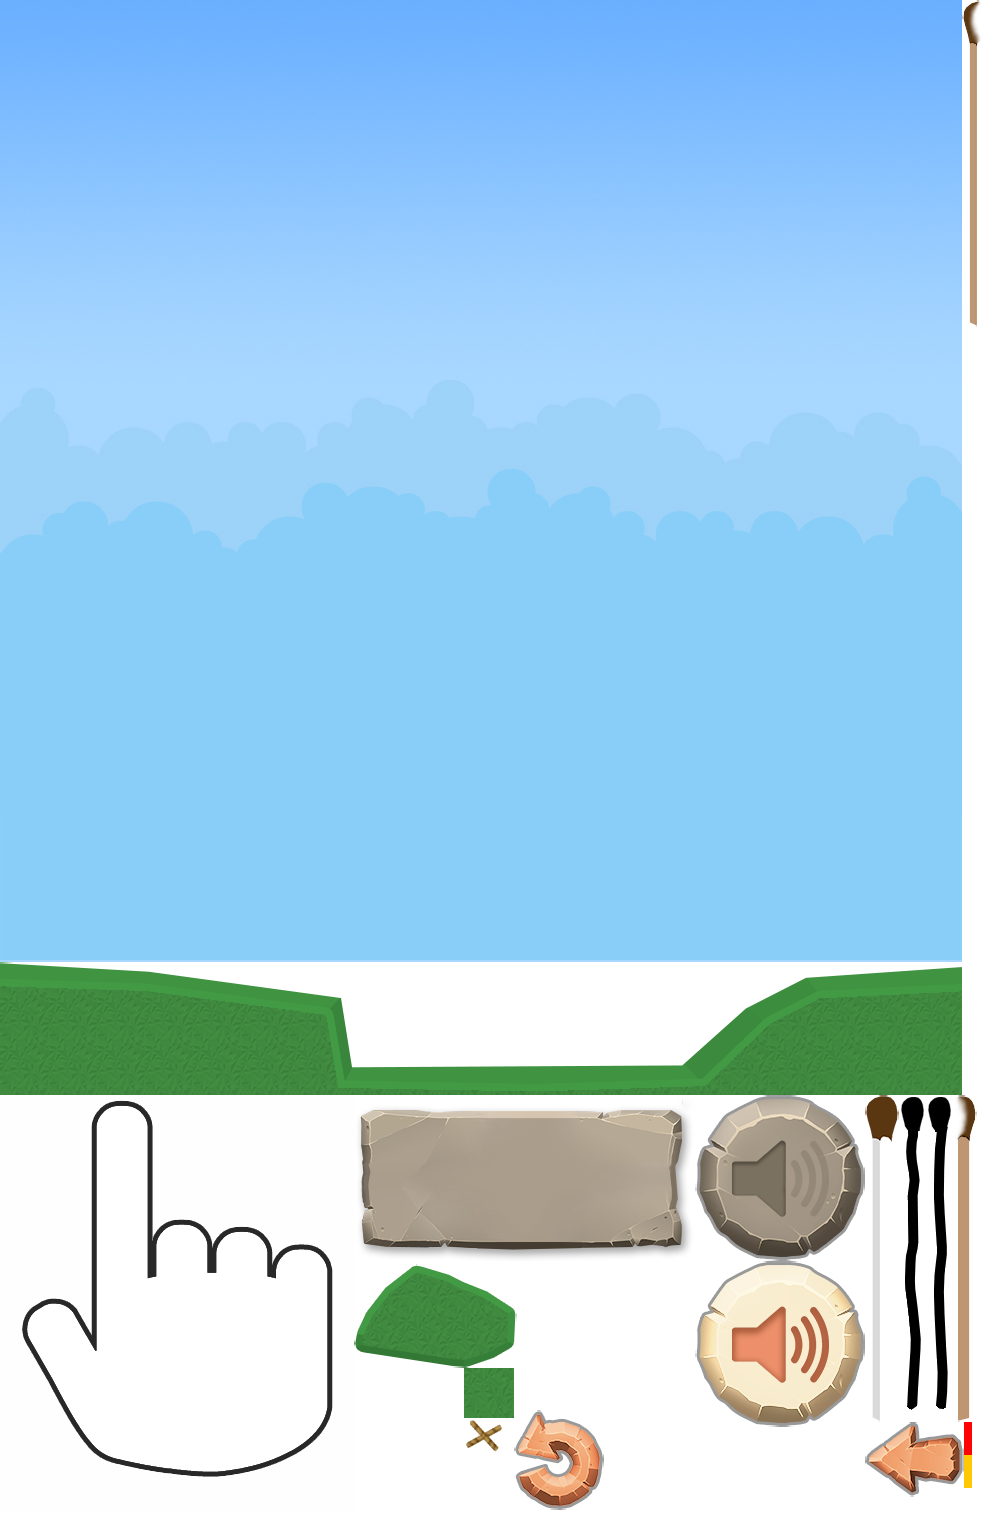
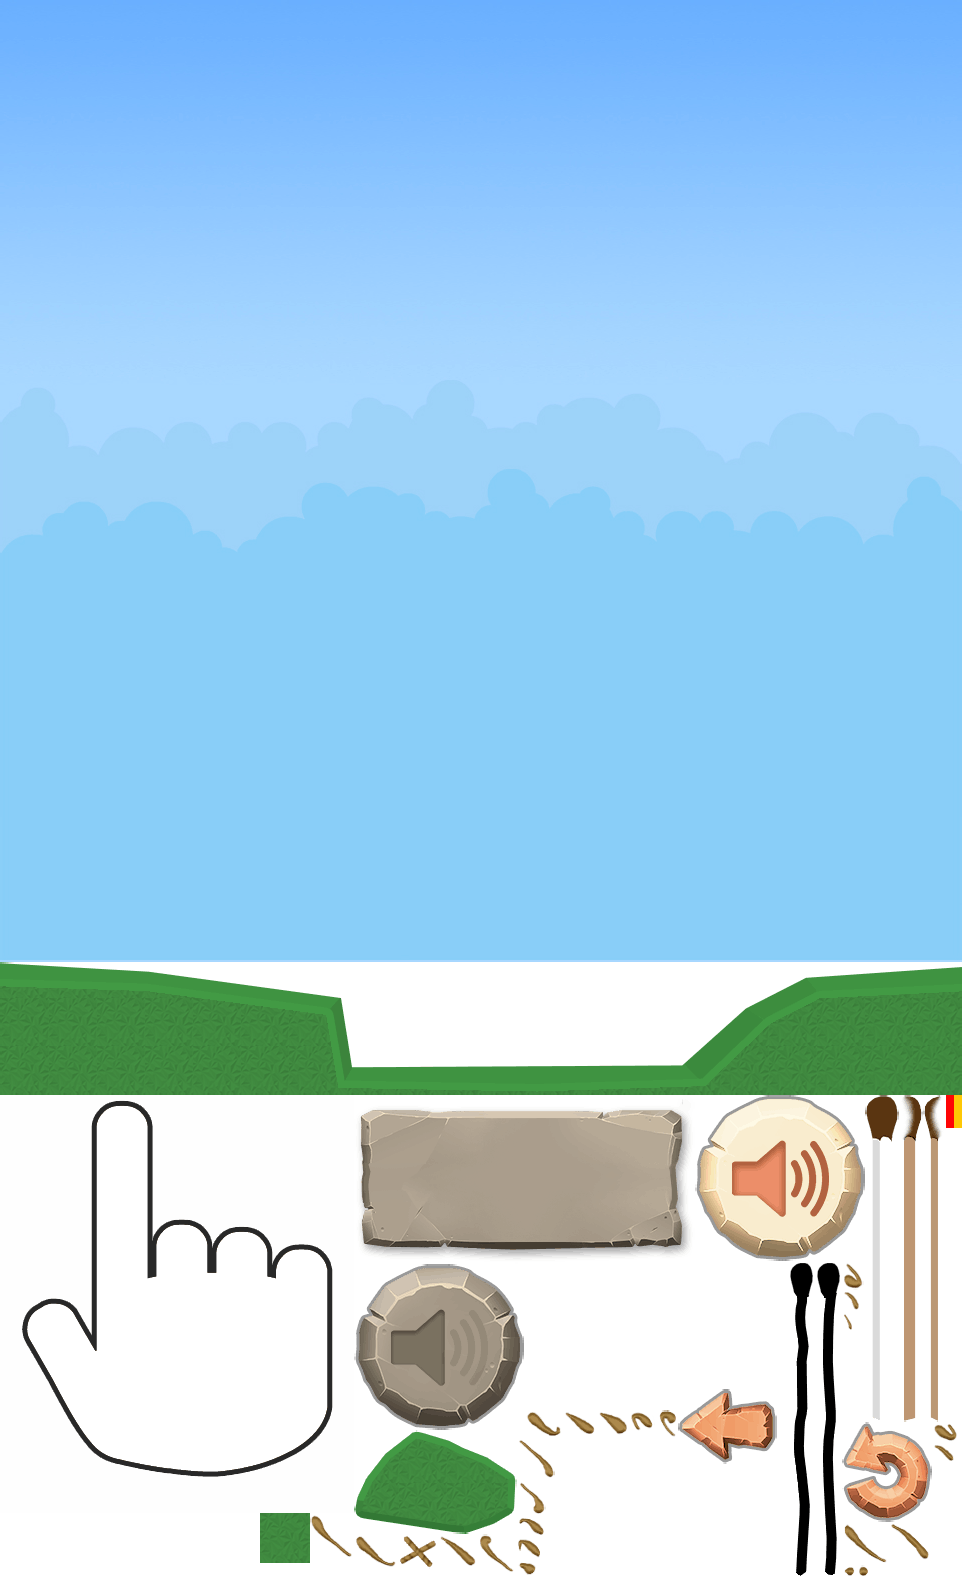
added nodes animations

Changed region(s): [[0.0, 0.0, 1.0, 1.0]]

diff --git a/js/objects/matches/match.js b/js/objects/matches/match.js
@@ -1,8 +1,9 @@
-import {BlendMode, DisplayObject, FontAlign, FontStyle, FontWeight, GameObject, Graphics, MessageDispatcher, Sprite, TextField} from "black-engine";
+import { DisplayObject, Sprite } from "black-engine";
 import * as planck from 'planck-js';
 import { Vec2 } from "planck-js";
 import BodiesTypes from "../../physics/bodies-types";
 import PhysicsOption from "../../physics/physics-options";
+import Node from "./node";
 
 const PI = Math.PI;
 
@@ -47,13 +48,16 @@ export default class Match extends DisplayObject {
     const diffY = viewPos.y - pos.y;
 
     const nodeVecRotation = Math.atan(-diffX/diffY) - (diffY < 0 ? Math.PI : 0);
-    const angleBetweenVectors = nodeVecRotation - view.rotation + Math.PI * 0.5;
-    const direction = Math.round(angleBetweenVectors/(Math.PI * 0.5));
+    const nodeDirection = Math.sin(nodeVecRotation) >= 0 ? -1 : 1;
+    const viewDirection = Math.sin(view.rotation) >= 0 ? -1 : 1;
+    const direction = nodeDirection * viewDirection;
 
     this._nodesPool.push({
       view: node,
       distance: distance * direction,
     });
+
+    node.animate();
   }
 
   getBody() {
@@ -210,10 +214,8 @@ export default class Match extends DisplayObject {
   }
 
   _createNode() {
-    const node = new Sprite('matches/node');
+    const node = new Node(this._scale * 1.3);
     this._parent.add(node)
-    node.scale = this._scale * 1.3;
-    node.alignAnchor(0.5);
 
     return node;
   }

diff --git a/js/objects/matches/node.js b/js/objects/matches/node.js
@@ -1,0 +1,55 @@
+import { AnimationController, Black, DisplayObject, Ease, Sprite, Tween } from "black-engine";
+import { Spine } from 'black-spine';
+
+export default class Node extends DisplayObject {
+  constructor(scale) {
+    super();
+
+    this._view = null;
+    this._scale = scale;
+
+    this._init();
+  }
+
+  animate() {
+    const anim = this._anim;
+    const view = this._view;
+
+    anim.play('anim');
+    anim.on('complete', () => {
+      view.visible = true;
+      view.scale = 0;
+
+      const tween = new Tween({scaleX: this._scale, scaleY: this._scale}, 0.3, {
+        playOnAdded: true,
+        ease: Ease.backOut,
+      });
+      view.addComponent(tween);
+    });
+  }
+
+  _init() {
+    this._initAnimation();
+    this._initView();
+  }
+
+  _initAnimation() {
+    const frames = new Sprite();
+    this.add(frames);
+    frames.alignAnchor(0.5);
+
+    const textureAnim = Black.assets.getTextures('matches/node/fix_*');
+    const animController = new AnimationController();
+    const anim = this._anim = frames.addComponent(animController);
+    anim.add('anim', textureAnim, 150, false);
+
+    frames.scale = this._scale;
+  }
+
+  _initView() {
+    const view = this._view = new Sprite('matches/node');
+    this.add(view);
+    view.alignAnchor(0.5);
+    view.visible = false;
+  }
+}

diff --git a/js/objects/map.js b/js/objects/map.js
@@ -53,7 +53,7 @@ export default class Map extends DisplayObject {
   }
 
   _createJoints(jointPoints) {
-    jointPoints.forEach(intersection => {
+    jointPoints.forEach((intersection, index) => {
       const { body1, body2, anchor } = intersection;
       const joint = WeldJoint({
         frequencyHz: 2.5,
@@ -65,13 +65,14 @@ export default class Map extends DisplayObject {
       // body1.setActive(true);
       // body2.setActive(true);
 
-      this._createNode(anchor);
+      const match = this._currentMatch;
+      Delayed.call(0.1 * index, () => this._createNode(match, anchor));
     });
   }
 
-  _createNode(anchor) {
+  _createNode(match, anchor) {
     anchor.mul(this._s);
-    this._currentMatch.addNode(anchor);
+    match.addNode(anchor);
   }
 
   _getJointPoints(currentMatch) {
